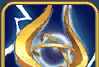
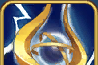
Updates
- Amulet of the day shopping
- cleaned up some debugs
- small optimalizations

Changed region(s): [[0.0, 0.0, 1.0, 1.0], [0.7653, 0.5231, 0.7959, 0.5846]]

diff --git a/src/task_logic.py b/src/task_logic.py
@@ -145,7 +145,7 @@ def bag(trigger: bool = False) -> int:
         x = 1700 if trigger else 1570
 
         while not get_pixel_color(x, 200) == (158, 128, 103):
-            Debug.history('Opening bag')
+            Debug.history('Opening chest')
             click((x, 200))
             sleep(1)
 
@@ -161,7 +161,7 @@ def bag(trigger: bool = False) -> int:
                 pass
             sleep(1)
             if color_at(1040, 890) == 'green':
-                Debug.info("Picked up new items in chests")
+                Debug.history("Picked up new items in chests")
                 click((1040, 890))
 
             click((1840, 55))
@@ -372,7 +372,6 @@ def check_party(trigger: bool = False) -> int:
 
     coords['upgrade'] = (max_x + 80, y)
     party_coords = dict(sorted(coords.items(), key=lambda item: item[1][0]))
-    Debug.info(f'{party_coords}')
     return time.time() * 2
 
 def check_taskcount(trigger: bool = False) -> int:
@@ -533,8 +532,6 @@ def engineer_garage(trigger: bool = False) -> int:
                     items[item] = (x, amount)
                     break
 
-    Debug.info(f'{items}')
-
     area = Region(0, 900, 1920, 180)
     tmp = {}
     min_level = 999
@@ -554,10 +551,7 @@ def engineer_garage(trigger: bool = False) -> int:
         if m:
             level = Region(m.get_x() + 70, m.get_y() + m.get_h(), 64, 32).get_number()
             min_level = level if level < min_level else min_level
-            Debug.info(f'{machine} ({level}) {m.get_score()}')
-            tmp[machine] = level
-
-    Debug.info(f'{tmp}')
+            tmp[machine] = int(level)
 
     click((1840, 55))
     return get_next_reset()
@@ -644,7 +638,7 @@ def exotic_merchant(trigger: bool = False) -> int:
     if not page_wait('exotic_merchant'):
         return -1
 
-    area = Region(790, 280, 1000, 795)
+    area = Region(790, 280, 1000, 800)
 
     # Sell items
     click((1120, 160))
@@ -768,7 +762,7 @@ def guild(trigger: bool = False) -> int:
 
 def guild_arcanecrystal(trigger: bool = False) -> int:
     """
-    Execute the Arcane Crystal interface routing subroutine.
+    Execute the Arcane Crystal.
     """
     if trigger:
         click((1860, 430))      # Guild icon on main screen
@@ -787,7 +781,7 @@ def guild_arcanecrystal(trigger: bool = False) -> int:
                 move_to((1120, 960))
                 start_loop = time.time()
                 while time.time() - start_loop < 10 and not color_at(1050, 970) == 'green':
-                    sleep(1)
+                    pass
             else:
                 break
 
@@ -808,8 +802,8 @@ def guild_awakening(trigger: bool = False) -> int:
         click((1800, 600))
         move_to((1880, 600))
         time_start = time.time()
-        while time.time() - time_start < 6 and not color_at(1600, 600) == 'yellow':
-            sleep(0.5)
+        while time.time() - time_start < 10 and not color_at(1600, 600) == 'yellow':
+            pass
 
     click((1840, 55))
     return 0
@@ -1310,7 +1304,6 @@ def map_map(trigger: bool = False, direction: int = 0) -> int:
     attempts = 0
     while not total and attempts < 5:
         text = area.text('1234567890/', colormap['white'], 3)
-        Debug.info(f'{text}')
         if text.startswith('/'):
             text = f'4{text}'
         current_text = re.search(r'(\d+)/(\d+)', text)
@@ -1399,6 +1392,8 @@ def map_map(trigger: bool = False, direction: int = 0) -> int:
                     if silver:
                         available -= required
 
+                    mtype = f'silver {mission_type}' if silver else mission_type
+                    Debug.history(f'Starting {mtype} mission')
                     click((1090, 870))
                     sleep(0.5)
                 else:
@@ -1565,7 +1560,7 @@ def pirates_price(trigger: bool = False) -> int:
     click((1840, 55))
     return 0
 
-def shop_signin(trigger: bool = False) -> int:
+def shop(trigger: bool = False) -> int:
     """
     Collect Sign-In Bonus
     """
@@ -1576,11 +1571,55 @@ def shop_signin(trigger: bool = False) -> int:
     for y_coords in [870, 920]:
         click((1360, y_coords))
 
-    # Check for the mystery box while here
+    # Amulet of the day
+    click((1050, 100))
+    sleep(1)
+    amulets = {
+        #name   (keys, gems)
+        'amulet_of_conquest': (0, 1),
+        'amulet_of_the_sky': (0, 1),
+        'amulet_of_knowledge': (0, 1),
+        'amulet_of_war': (0, 1),
+        'amulet_of_power': (0, 1),
+        'amulet_of_midas': (0, 1),
+        'amulet_of_alchemy': (0, 1),
+        'amulet_of_cartography': (0, 1),
+        'amulet_of_exploration': (0, 1),
+        'amulet_of_greed': (0, 1),
+        'amulet_of_the_quartermaster': (0, 1),
+        'amulet_of_the_pioneers': (0, 1),
+        'amulet_of_liberation': (0, 1),
+        'amulet_of_production': (0, 1),
+        'amulet_of_clarity': (0, 1),
+        'amulet_of_astrology': (0, 1),
+        'amulet_of_the_seven': (0, 1),
+        'amulet_of_tinkering': (0, 1),
+        'amulet_of_insight': (0, 1),
+        'amulet_of_luck': (1, 0),
+        'amulet_of_the_king': (1, 0),
+        'amulet_of_the_queen': (1, 0),
+        'amulet_of_speed': (1, 0),
+        'amulet_of_damage': (1, 0),
+        'amulet_of_health': (1, 0)
+    }
+
+    current = Region(710, 360, 840, 56).get_text('', colormap['white']).strip().lower()
+    if current in amulets and config[f'buy_{current}']:
+        name, (keys, gems) = amulets[current]
+        current_keys = Region(790, 1010, 120, 44).get_number()
+        current_gems = Region(1040, 1010, 120, 44).get_number()
+        if (keys and  current_keys >= 20) or (gems and current_gems >= 2000):
+            Debug.history(f'[shop] Obtaining {name.replace('_', ' ').capitalize}')
+            click((1330, 800))
+            sleep(1)
+            if color_at(1060, 780) == 'green':
+                click((1060, 780))
+
+    # Check for the mystery box
     click((620, 100))
     sleep(1)
     if color_at(740, 900) == 'green':
-        Debug.history('[shop_signin] Picked up mystery box')
+        Debug.history('[shop] Picked up mystery box')
         click((600, 900))
 
     sleep(1)
@@ -1612,7 +1651,7 @@ def tavern_scarab_game(trigger: bool = False) -> int:
         move_to((800, 1000))
         start_loop = time.time()
         while time.time() - start_loop < 5 and not color_at(1024, 1000) == 'green':
-            sleep(1)
+            pass
 
     # pharao's vault
     if color_at(1880, 180) == 'white':
@@ -1676,7 +1715,7 @@ def tavern_pharaos_vault(trigger: bool = False) -> int:
         move_to((940, 1010))
         start_loop = time.time()
         while time.time() - start_loop < config['wait_page'] and not color_at(1010, 1010) == 'green':
-            sleep(1)
+            pass
 
     if color_at(1870, 410) == 'red':
         click((1800, 450))

diff --git a/src/custom_core.py b/src/custom_core.py
@@ -181,6 +181,33 @@ config = {
     # Map
     'map_order':                        'mystery,dragon,monster,naval,scout,war,adventure', # the order to play map missions
 
+    # Shop
+    'buy_amulet_of_conquest':           False,
+    'buy_amulet_of_the_sky':            False,
+    'buy_amulet_of_knowledge':          False,
+    'buy_amulet_of_war':                False,
+    'buy_amulet_of_power':              False,
+    'buy_amulet_of_midas':              False,
+    'buy_amulet_of_alchemy':            False,
+    'buy_amulet_of_cartography':        False,
+    'buy_amulet_of_exploration':        False,
+    'buy_amulet_of_greed':              False,
+    'buy_amulet_of_the_quartermaster':  False,
+    'buy_amulet_of_the_pioneers':       False,
+    'buy_amulet_of_liberation':         False,
+    'buy_amulet_of_production':         False,
+    'buy_amulet_of_clarity':            False,
+    'buy_amulet_of_astrology':          False,
+    'buy_amulet_of_the_seven':          False,
+    'buy_amulet_of_tinkering':          False,
+    'buy_amulet_of_insight':            False,
+    'buy_amulet_of_luck':               False,
+    'buy_amulet_of_the_king':           False,
+    'buy_amulet_of_the_queen':          False,
+    'buy_amulet_of_speed':              False,
+    'buy_amulet_of_damage':             False,
+    'buy_amulet_of_health':             False,
+
     # Temple of eternals
     'jump_percentage':                  400,                        # temple of eternals: jump percentage
     'jump_temple_token':                800,                        # temple of eternals: percentage to use temple tokens
@@ -254,7 +281,7 @@ tasks = {
     'pirates_price':        ('pirate_ship/pirates_price.png',   'pirates_price', 0, 0), #rework pickup method
 
     # shop
-    'sign_in':              ('shop/sign_in.png',                'shop_signin', 0, 300),
+    'sign_in':              ('shop/sign_in.png',                'shop', 0, 300),
 
     # tavern
     'pharaos_vault':        ('tavern/pharaos_vault.png',        'tavern_pharaos_vault', 0, 0),
@@ -551,6 +578,7 @@ def config_page() -> None:
     tab7 = ttk.Frame(tabs, padding=10)
     tab8 = ttk.Frame(tabs, padding=10)
     tab9 = ttk.Frame(tabs, padding=10)
+    tab10 = ttk.Frame(tabs, padding=10)
 
     tabs.add(tab1, text='System')
     tab1.grid_columnconfigure(1, minsize=400, weight=0)
@@ -645,10 +673,18 @@ def config_page() -> None:
         map_list.itemconfig(idx, fg='red')
         idx += 1
     map_list.bind("<Double-1>", lambda e: _config_listevent(e, map_list, 'dblclick', 'map_order'))
-    
-    tabs.add(tab9, text='Temple of eternals')
-    _config_numeric(tab9, 'Jump percentage', 0, 'jump_percentage', 100, 100000000000)
-    _config_numeric(tab9, 'Use temple token at', 1, 'jump_temple_token', 100, 100000000000)
+
+    tabs.add(tab9, text='Shop')
+    idx = 0
+    for name, _ in config.items():
+        if name.startswith('buy_'):
+            text = name.replace('_', ' ').capitalize()
+            _config_checkbox(tab9, text, idx, name)
+            idx += 1
+
+    tabs.add(tab10, text='Temple of eternals')
+    _config_numeric(tab10, 'Jump percentage', 0, 'jump_percentage', 100, 100000000000)
+    _config_numeric(tab10, 'Use temple token at', 1, 'jump_temple_token', 100, 100000000000)
 
     c.mainloop()
 
@@ -1133,7 +1169,7 @@ def pause_check() -> None:
     if not os.path.exists(lock_file):
         Debug.info('Systems paused, toggle Scroll-Lock to continue. Home to configure.')
         while not os.path.exists(lock_file):
-            sleep(1)
+            pass
 
 def pause_off() -> None:
     """
@@ -1777,7 +1813,7 @@ class Region():
             floatt: the extracted value
         """
         number = self.text('1234567890.,+%', colormap[color_map])
-        Debug.info(f'Number start: {number}')
+        # Debug.info(f'Number start: {number}')
 
         if not number:
             return 0.0
@@ -1792,7 +1828,7 @@ class Region():
             elif char.isnumeric():
                 sanitized = char + sanitized
 
-        Debug.info(f'Number end: {sanitized}')
+        # Debug.info(f'Number end: {sanitized}')
 
         try:
             return float(sanitized) if sanitized else 0.0
@@ -1961,7 +1997,6 @@ class Region():
             match = self.exists(image_path)
             if match:
                 return match
-            sleep(0.2)
         return False
 
     def wait_vanish(self, image_path: str = None, timeout:  float = 3):
@@ -1977,13 +2012,14 @@ class Region():
         Returns:
             bool: True if the pattern vanished or was omitted, False on timeout evaluation.
         """
+        if image_path is None:
+            return True
+
         start_time = time.time()
         while (time.time() - start_time) < timeout:
-            if image_path is None:
-                return True
             if not self.exists(image_path):
                 return True
-            sleep(0.2)
+
         return False
 
 class Match(Region):
@@ -2020,8 +2056,6 @@ config_load()
 # general regions
 screen = Region(0, 0, 1920, 1080)
 main_finished = Region(0, 0, 160, 570)
-main_heroes = Region(0, 910, 1660, 170)
-main_upgrade = Region(1661, 910, 259, 170)
 
 # filetracker
 tracker = ImageTracker()

diff --git a/src/page_logic.py b/src/page_logic.py
@@ -172,6 +172,5 @@ def page_wait(page: str) -> bool:
     while not actual_function():
         if time.time() - time_start >= config['wait_page']:
             return False
-        pass
 
     return True

diff --git a/README.md b/README.md
@@ -109,6 +109,8 @@ But sadly, new OculiX IDE looking shiny on my desktop, getting frustrated by the
 - Pirates price
 
 ### Shop
+- Amulet of the day (configurable)
+  **WARNING**: This **will** spend either 20 keys or 2000 gems when the amulet(s) of choice becomes available.
 - Daily rewards
 - Mystery box
 
